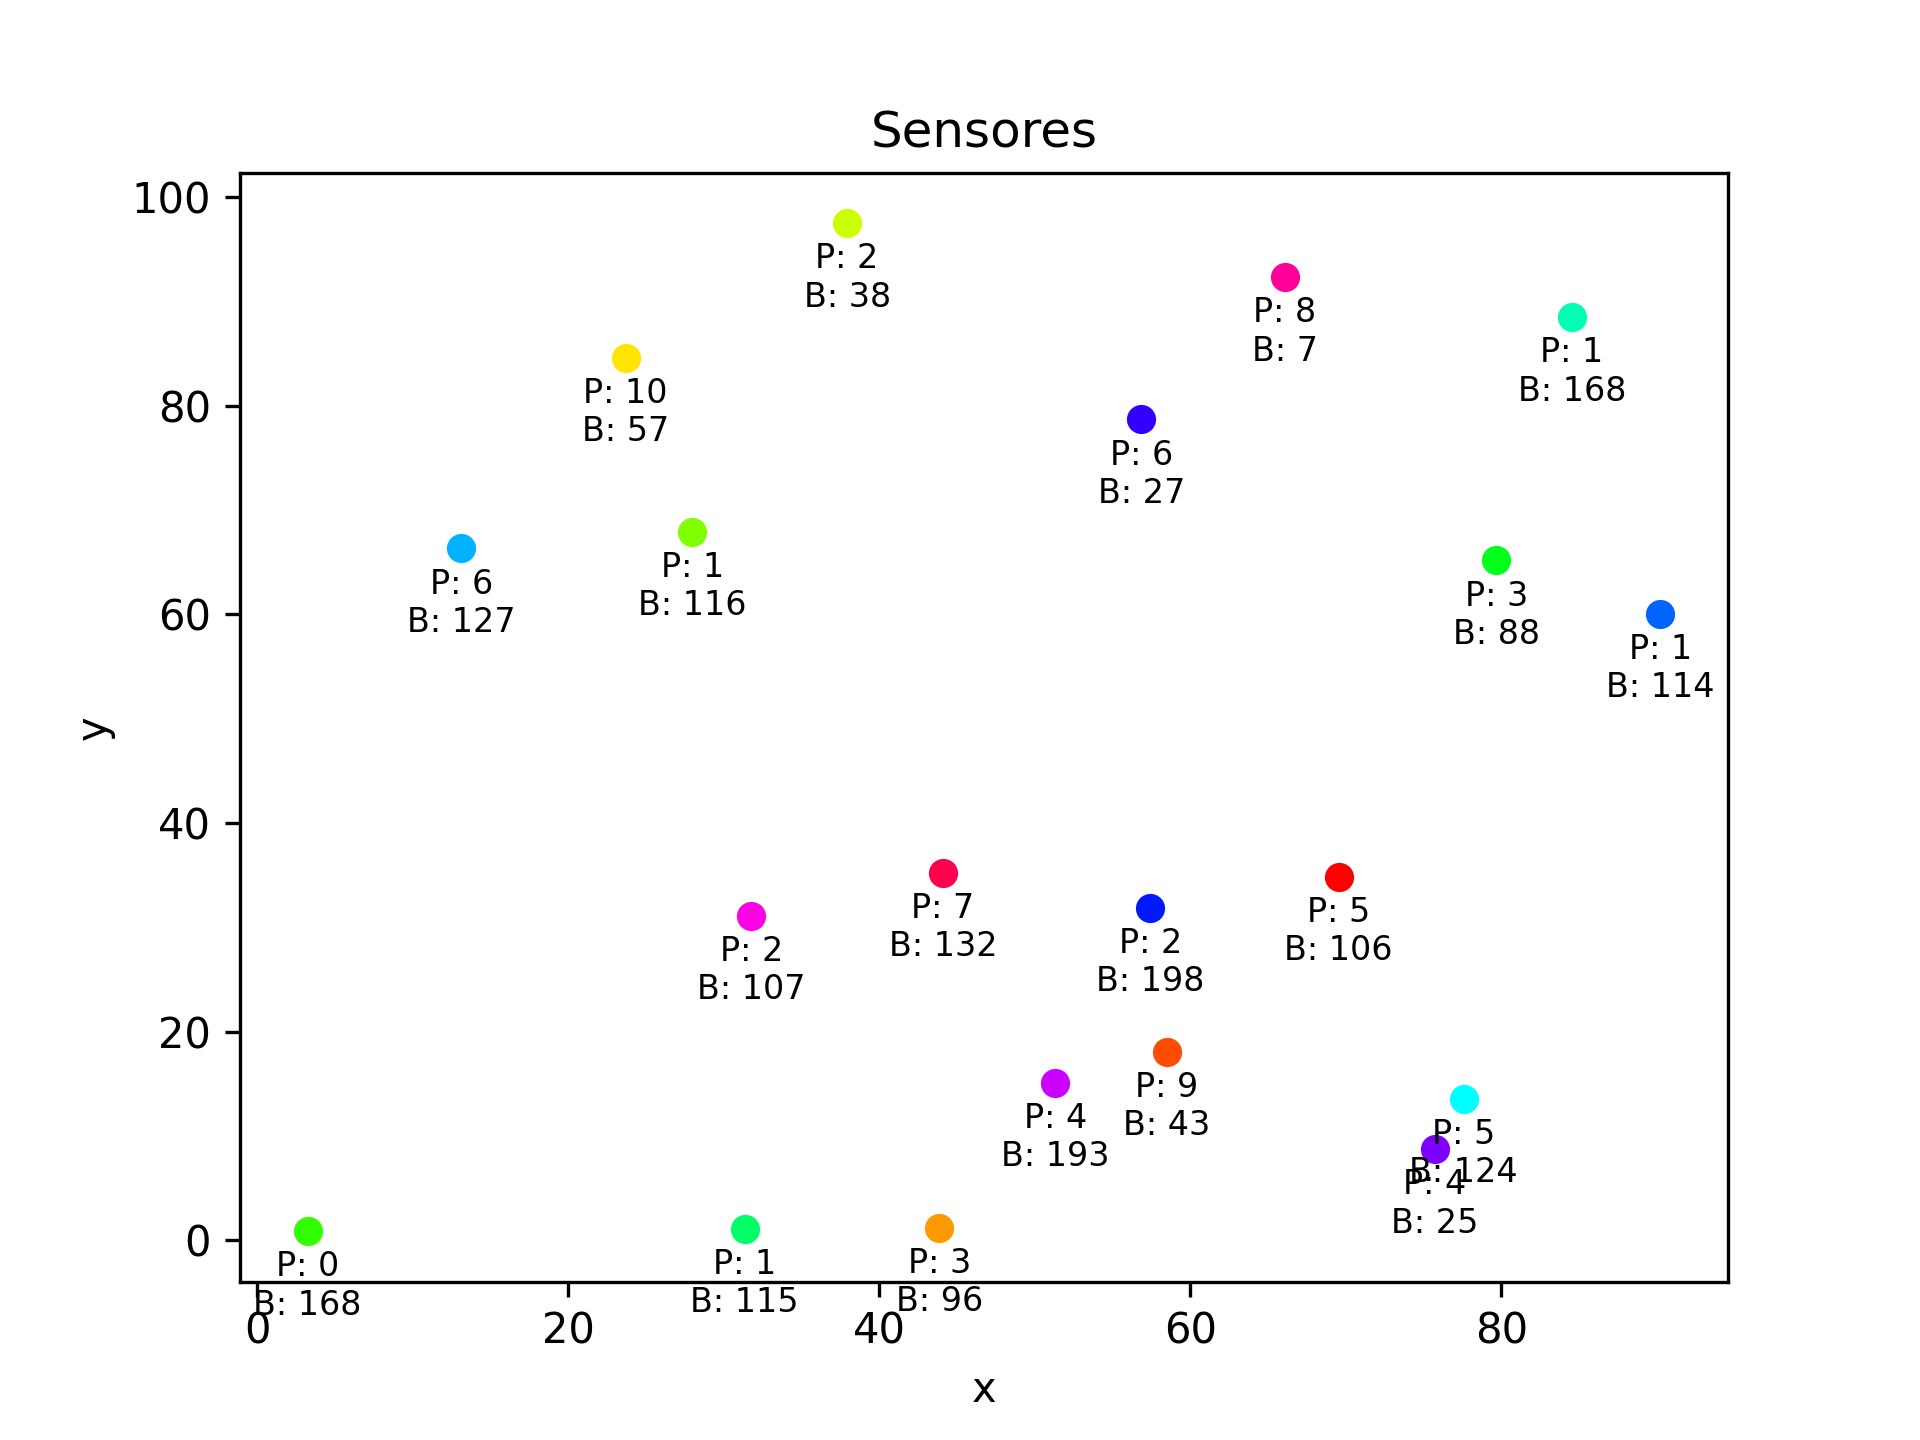
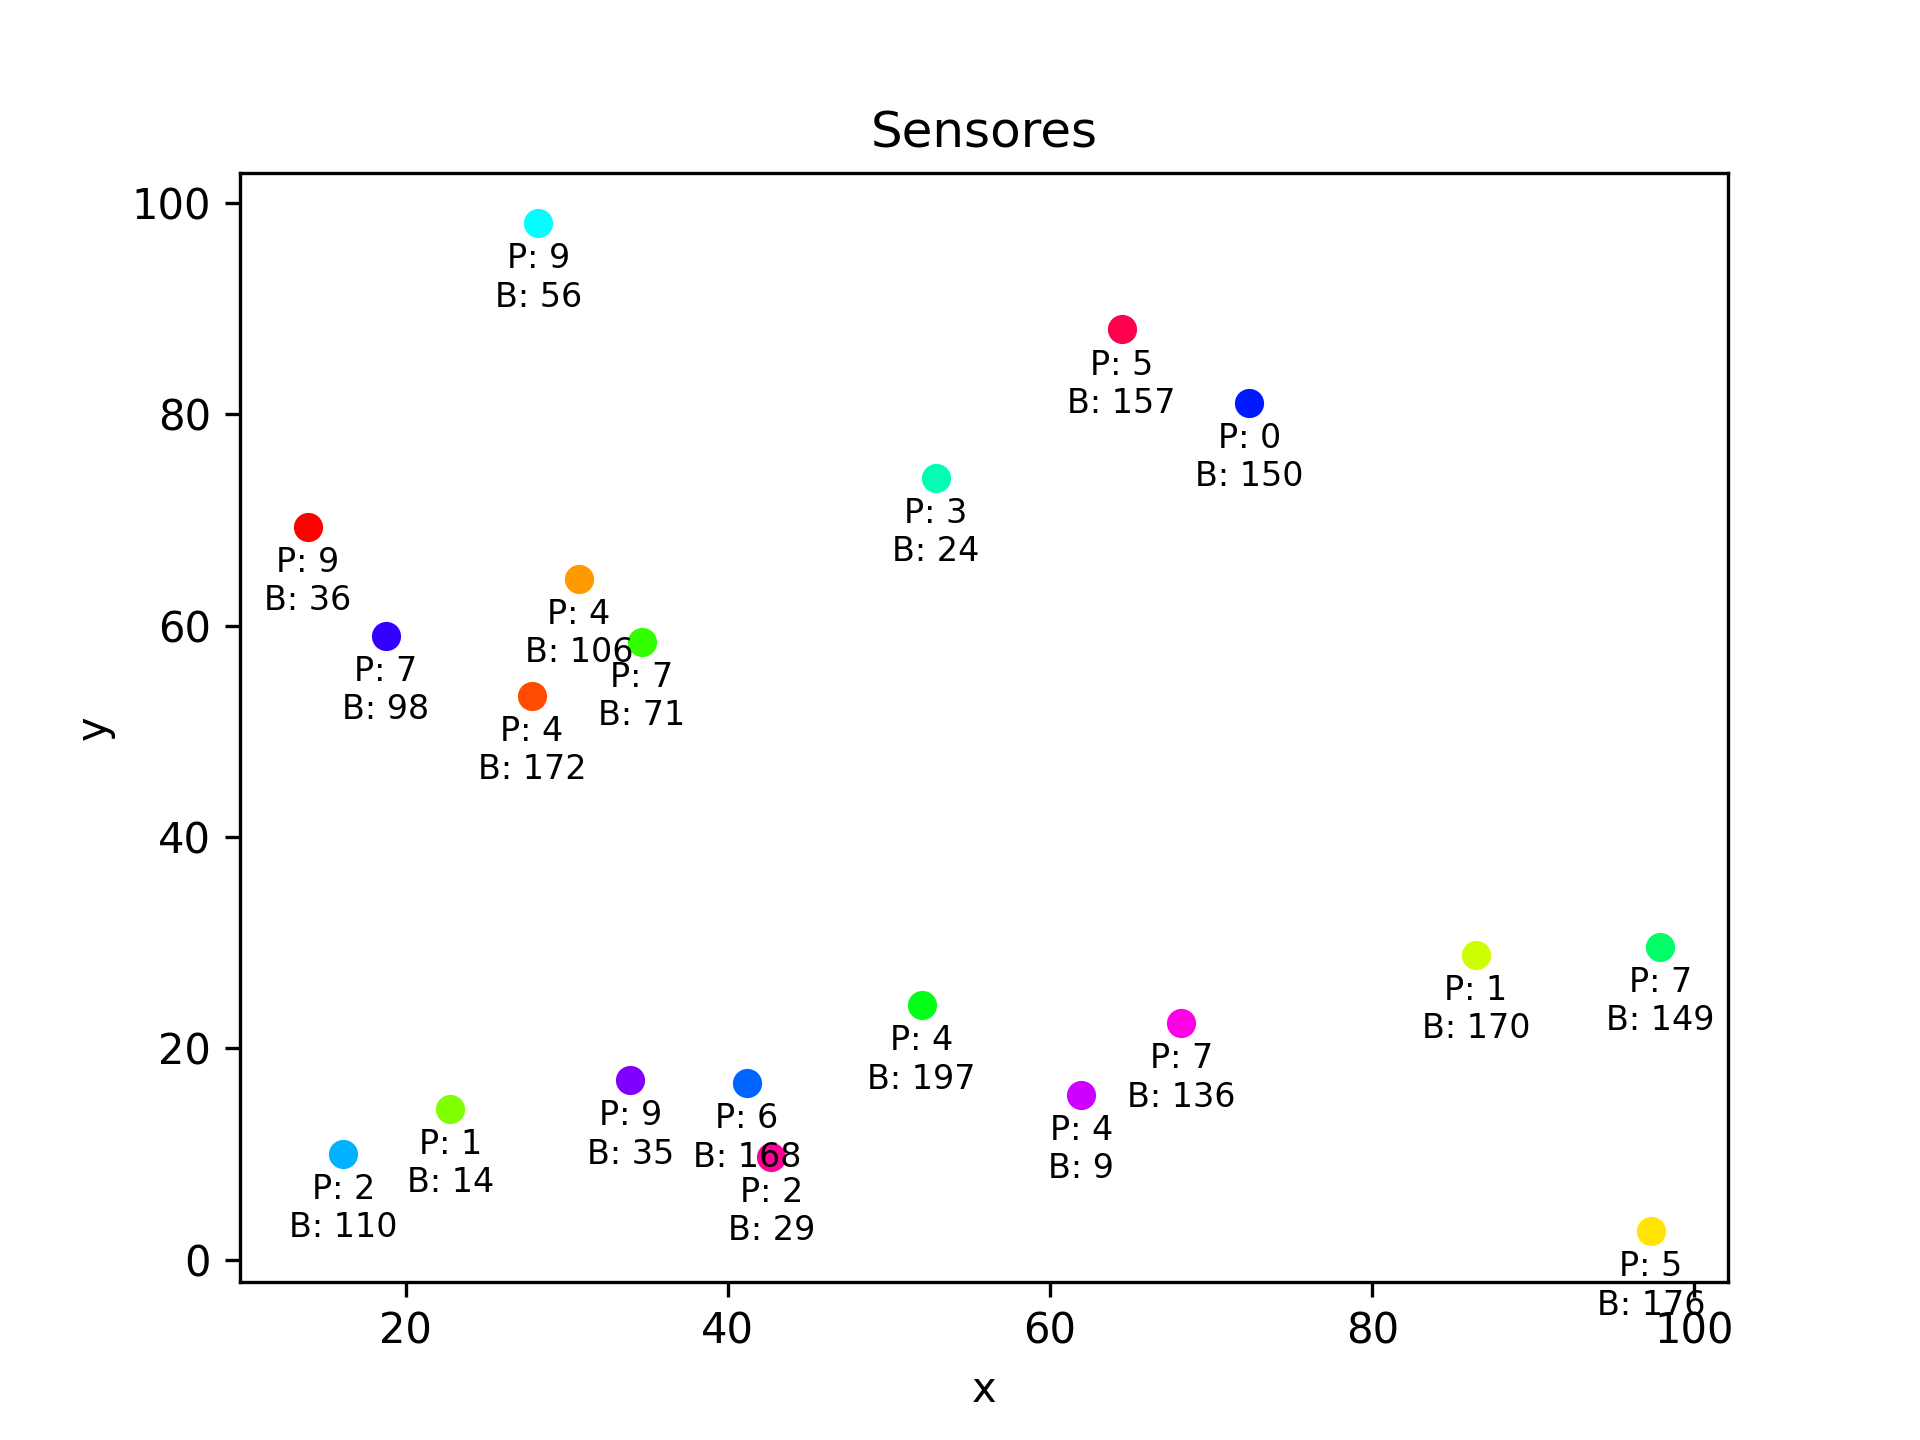
Generador de escenario que pide semilla o la genera aleatoriamente

diff --git a/Generador/generador_sensores.py b/Generador/generador_sensores.py
@@ -2,75 +2,91 @@ import colorsys
 import random
 import matplotlib.pyplot as plt
 
+def generaSensores(seed):
 
-# numero de sensores
-num = 30
+    # numero de sensores
+    num = 20
 
-# coordenadas maximas
-max_x = 100
-max_y = 100
+    # coordenadas maximas
+    max_x = 100
+    max_y = 100
 
-# prioridad maxima
-max_p = 10
+    # prioridad maxima
+    max_p = 10
 
-# bateria faltante maxima
-max_b = 200
+    # bateria faltante maxima
+    max_b = 200
 
-# lista de posiciones, prioridades y baterias
-posiciones = []
-prioridades = []
-baterias = []
+    # lista de posiciones, prioridades y baterias
+    posiciones = []
+    prioridades = []
+    baterias = []
 
-# abrimos el fichero en modo escritura
-f = open("Escenario/scenary_sensores.txt", "w")
-
-# iteramos para num sensores
-for _ in range(num):
+    # abrimos el fichero en modo escritura
+    f = open("Escenario/scenary_sensores.txt", "w")
     
-    # generamos coordenadas aleatorias
-    x = round(random.uniform(0, max_x), 2)
-    y = round(random.uniform(0, max_y), 2)
-    
-    # evitamos dos ciudades demasiado juntas
-    repetido = 1
-    while repetido == 1:
-        repetido = 0
-        for t in posiciones:
-            if (abs(t[0] - x) <= 3 and abs(t[1] - y) <= 3):
-                repetido = 1
-                x = round(random.uniform(0, 100), 2)
-                y = round(random.uniform(0, 100), 2)
-                break
-    
-    # generamos una prioridad aleatoria
-    prioridad = random.randint(0, max_p)
-    
-    # generamos una bateria faltante aleatoria
-    bateria = random.randint(0, max_b)
-    
-    # añadimos las posiciones, prioridades y baterias a los vectores
-    posiciones.append((x, y))
-    prioridades.append(prioridad)
-    baterias.append(bateria)
-    
-    # añadimos la linea al fichero
-    string = "X: {:05.2f}\tY: {:05.2f}\tP: {}\tB: {}\n".format(x, y, prioridad, bateria)
-    f.write(string)
+    random.seed(seed)
 
-# cerramos el fichero
-f.close()
+    # iteramos para num sensores
+    for _ in range(num):
+        
+        # generamos coordenadas aleatorias
+        x = round(random.uniform(0, max_x), 2)
+        y = round(random.uniform(0, max_y), 2)
+        
+        # evitamos dos ciudades demasiado juntas
+        repetido = 1
+        while repetido == 1:
+            repetido = 0
+            for t in posiciones:
+                if (abs(t[0] - x) <= 3 and abs(t[1] - y) <= 3):
+                    repetido = 1
+                    x = round(random.uniform(0, 100), 2)
+                    y = round(random.uniform(0, 100), 2)
+                    break
+        
+        # generamos una prioridad aleatoria
+        prioridad = random.randint(0, max_p)
+        
+        # generamos una bateria faltante aleatoria
+        bateria = random.randint(0, max_b)
+        
+        # añadimos las posiciones, prioridades y baterias a los vectores
+        posiciones.append((x, y))
+        prioridades.append(prioridad)
+        baterias.append(bateria)
+        
+        # añadimos la linea al fichero
+        string = "X: {:05.2f}\tY: {:05.2f}\tP: {}\tB: {}\n".format(x, y, prioridad, bateria)
+        f.write(string)
 
-# ! Solo se usa para el editor externo de CPLEX Studio
-# # Fichero de salida para CPLEX
-# f2 = open("CPLEX/Drones/Sensores.dat", "w")
+    # cerramos el fichero
+    f.close()
 
-# f2.write('// Numero de sensores' + '\n' + 'm = ' + str(num) + ';\n')
-# f2.write('// Coordenadas de los sensores' + '\n' + 'coordSensor = ' + str([f'<{x:.2f}, {y:.2f}>' for x, y in posiciones]).replace("'", "") + ';\n')
-# f2.write('// Prioridades' + '\n' + 'P = ' + str(prioridades) + ';\n')
-# f2.write('// Carga necesaria' + '\n' + 'F = ' + str(baterias) + ';\n')
+    # ! Solo se usa para el editor externo de CPLEX Studio
+    # # Fichero de salida para CPLEX
+    # f2 = open("CPLEX/Drones/Sensores.dat", "w")
 
-# f2.close()
-# ! Solo se usa para el editor externo de CPLEX Studio
+    # f2.write('// Numero de sensores' + '\n' + 'm = ' + str(num) + ';\n')
+    # f2.write('// Coordenadas de los sensores' + '\n' + 'coordSensor = ' + str([f'<{x:.2f}, {y:.2f}>' for x, y in posiciones]).replace("'", "") + ';\n')
+    # f2.write('// Prioridades' + '\n' + 'P = ' + str(prioridades) + ';\n')
+    # f2.write('// Carga necesaria' + '\n' + 'F = ' + str(baterias) + ';\n')
+
+    # f2.close()
+    # ! Solo se usa para el editor externo de CPLEX Studio
+
+    # generamos el grafico
+    colors = generarColoresUnicos(len(posiciones))
+
+    for i, t in enumerate(posiciones):
+        color = colors[i]
+        plt.scatter(t[0], t[1], c=color)
+        plt.annotate(f'P: {prioridades[i]}\nB: {baterias[i]}', (t[0], t[1]), textcoords="offset points", xytext=(0,-20), ha='center', fontsize=8)
+    plt.title('Sensores')
+    plt.xlabel('x')
+    plt.ylabel('y')
+    plt.savefig('Escenario/scenary_sensores.png', dpi=300)
+    plt.show()
 
 # Funcion auxiliar que genera una lista de colores unicos para los caminos de los drones
 def generarColoresUnicos(n):
@@ -83,16 +99,3 @@ def generarColoresUnicos(n):
         hexColor = '#{:02x}{:02x}{:02x}'.format(*rgbInt)
         listaColores.append(hexColor)
     return listaColores
-
-# generamos el grafico
-colors = generarColoresUnicos(len(posiciones))
-
-for i, t in enumerate(posiciones):
-    color = colors[i]
-    plt.scatter(t[0], t[1], c=color)
-    plt.annotate(f'P: {prioridades[i]}\nB: {baterias[i]}', (t[0], t[1]), textcoords="offset points", xytext=(0,-20), ha='center', fontsize=8)
-plt.title('Sensores')
-plt.xlabel('x')
-plt.ylabel('y')
-plt.savefig('Escenario/scenary_sensores.png', dpi=300)
-plt.show()

diff --git a/Generador/generador_drones.py b/Generador/generador_drones.py
@@ -1,44 +1,45 @@
-# Programa que genera un fichero con los drones que se van a utilizar en el escenario.
-
 import random
 
-# definimos el numero de drones, en este caso 3
-num_drones = 3
-    
-# Definimos los valores minimos y maximos para las capacidades de los drones
-min_distance = 100
-max_distance = 150
-min_battery = 100
-max_battery = 250
+def generaDrones(seed):
+    # definimos el numero de drones, en este caso 3
+    num_drones = 3
+        
+    # Definimos los valores minimos y maximos para las capacidades de los drones
+    min_distance = 100
+    max_distance = 150
+    min_battery = 100
+    max_battery = 250
 
-# Definimos las listas donde se almacenaran las capacidades de los drones
-B = []
-C = []
-n = 0
+    # Definimos las listas donde se almacenaran las capacidades de los drones
+    B = []
+    C = []
+    n = 0
 
-# Fichero de salida para algoritmo genetico
-f = open("Escenario/scenary_drones.txt", "w")
+    # Fichero de salida para algoritmo genetico
+    f = open("Escenario/scenary_drones.txt", "w")
 
-for _ in range(num_drones):
-    n += 1
-    B.append(random.randint(min_battery, max_battery))
-    C.append(random.randint(min_distance, max_distance))
-    dron = {
-        'dron_n': n,  # drone number
-        'battery_capacity': B[n - 1],  # battery capacity variable
-        'distance_capacity': C[n - 1]  # distance capacity variable
-    }
-    f.write(str(dron) + '\n')
-    
-f.close()
+    random.seed(seed)
 
-# ! Solo se usa para el editor externo de CPLEX Studio
-# # Fichero de salida para CPLEX
-# f2 = open("CPLEX/Drones/Drones.dat", "w")
+    for _ in range(num_drones):
+        n += 1
+        B.append(random.randint(min_battery, max_battery))
+        C.append(random.randint(min_distance, max_distance))
+        dron = {
+            'dron_n': n,  # drone number
+            'battery_capacity': B[n - 1],  # battery capacity variable
+            'distance_capacity': C[n - 1]  # distance capacity variable
+        }
+        f.write(str(dron) + '\n')
+        
+    f.close()
 
-# f2.write('// Numero de drones' + '\n' + 'n = ' + str(num_drones) + ';\n')
-# f2.write('// Capacidad de carga' + '\n' + 'B = ' + str(B) + ';\n')
-# f2.write('// Distancia de vuelo' + '\n' + 'C = ' + str(C) + ';\n')
+    # ! Solo se usa para el editor externo de CPLEX Studio
+    # # Fichero de salida para CPLEX
+    # f2 = open("CPLEX/Drones/Drones.dat", "w")
 
-# f2.close()
-# ! Solo se usa para el editor externo de CPLEX Studio
+    # f2.write('// Numero de drones' + '\n' + 'n = ' + str(num_drones) + ';\n')
+    # f2.write('// Capacidad de carga' + '\n' + 'B = ' + str(B) + ';\n')
+    # f2.write('// Distancia de vuelo' + '\n' + 'C = ' + str(C) + ';\n')
+
+    # f2.close()
+    # ! Solo se usa para el editor externo de CPLEX Studio

diff --git a/Generador/generador_escenario.py b/Generador/generador_escenario.py
@@ -1,0 +1,33 @@
+from generador_drones import generaDrones
+from generador_sensores import generaSensores
+
+import os
+import hashlib
+
+def main():
+    
+    # Pedimos la semilla o la generamos aleatoriamente
+    seed = input("Introduce una semilla o pulsa enter para generar una aleatoria: ")
+    
+    if seed == "":
+        # Generamos una semilla aleatoria en md5
+        seed = generar_hash_aleatorio()
+        
+    print("Semilla: ", seed)
+    
+    # Guardamos la semilla en un fichero
+    f = open("Escenario/seed.txt", "w")
+    f.write(seed)
+    f.close()
+    
+    generaDrones(seed)
+    generaSensores(seed)
+
+def generar_hash_aleatorio():
+    # Generamos 16 bytes aleatorios (128 bits)
+    bytes_aleatorios = os.urandom(16)
+    # Convertimos los bytes aleatorios a una cadena hexadecimal
+    hash_hex = hashlib.md5(bytes_aleatorios).hexdigest()
+    return hash_hex
+
+main()
